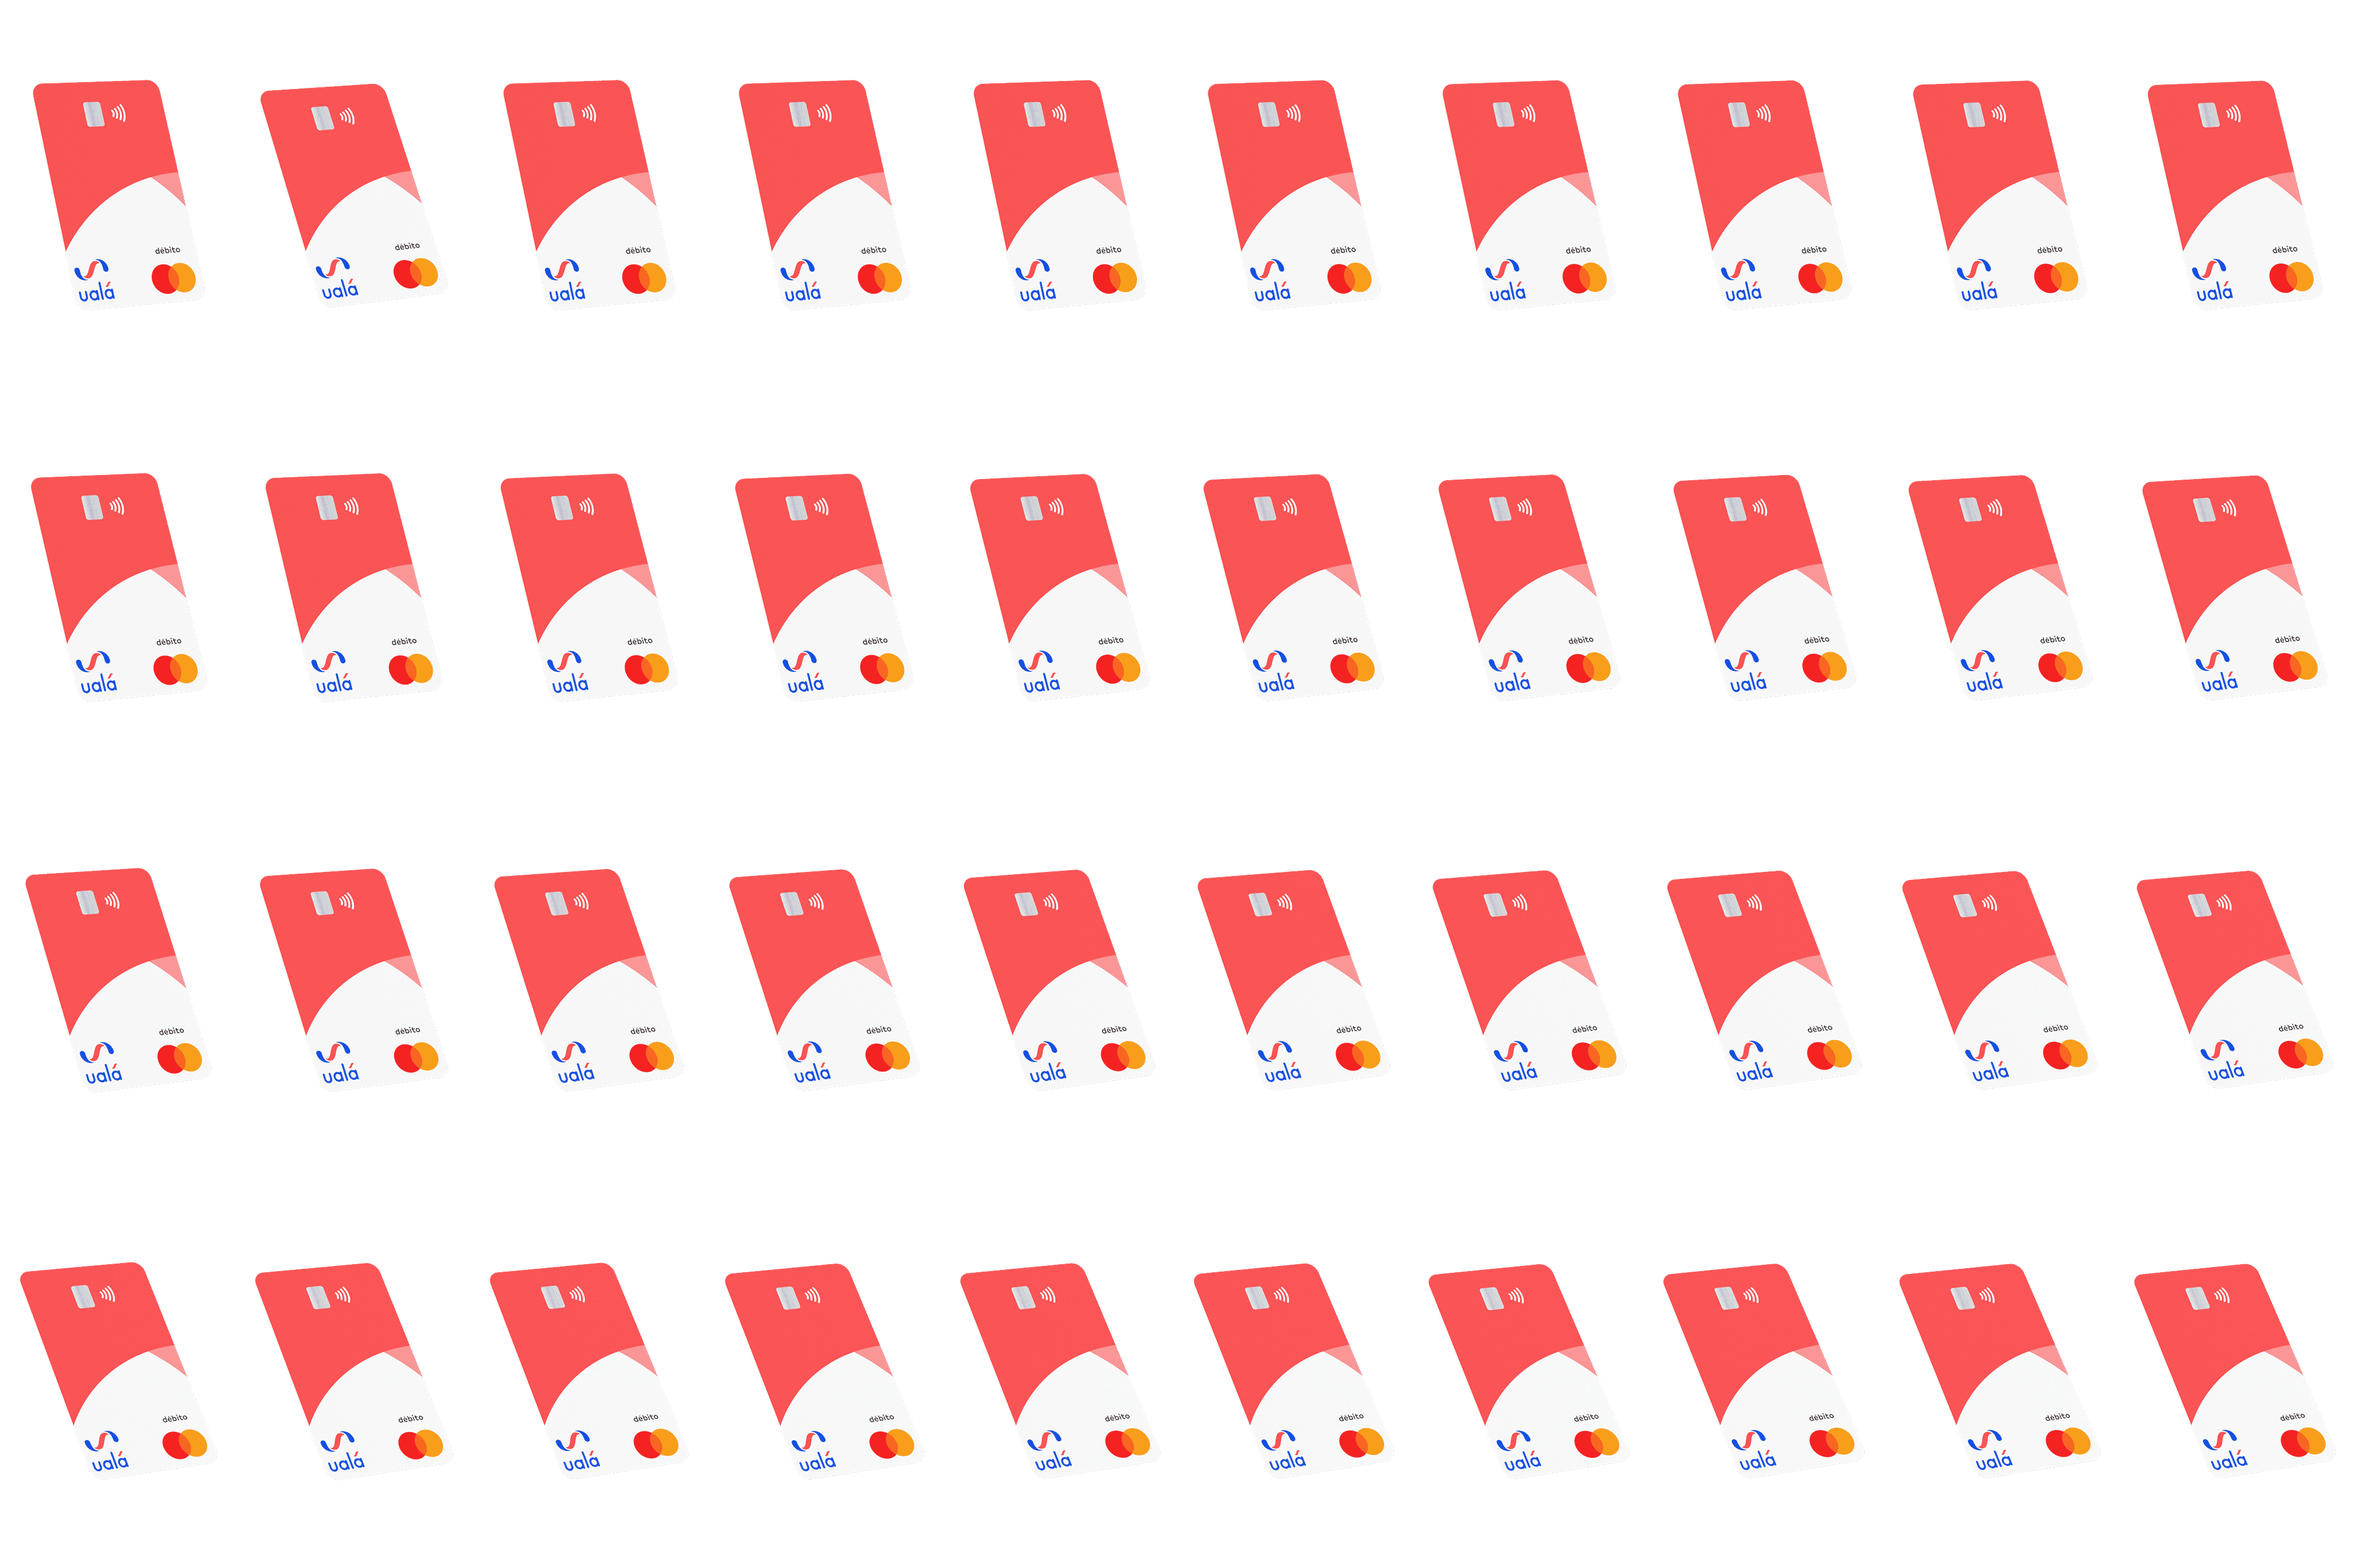
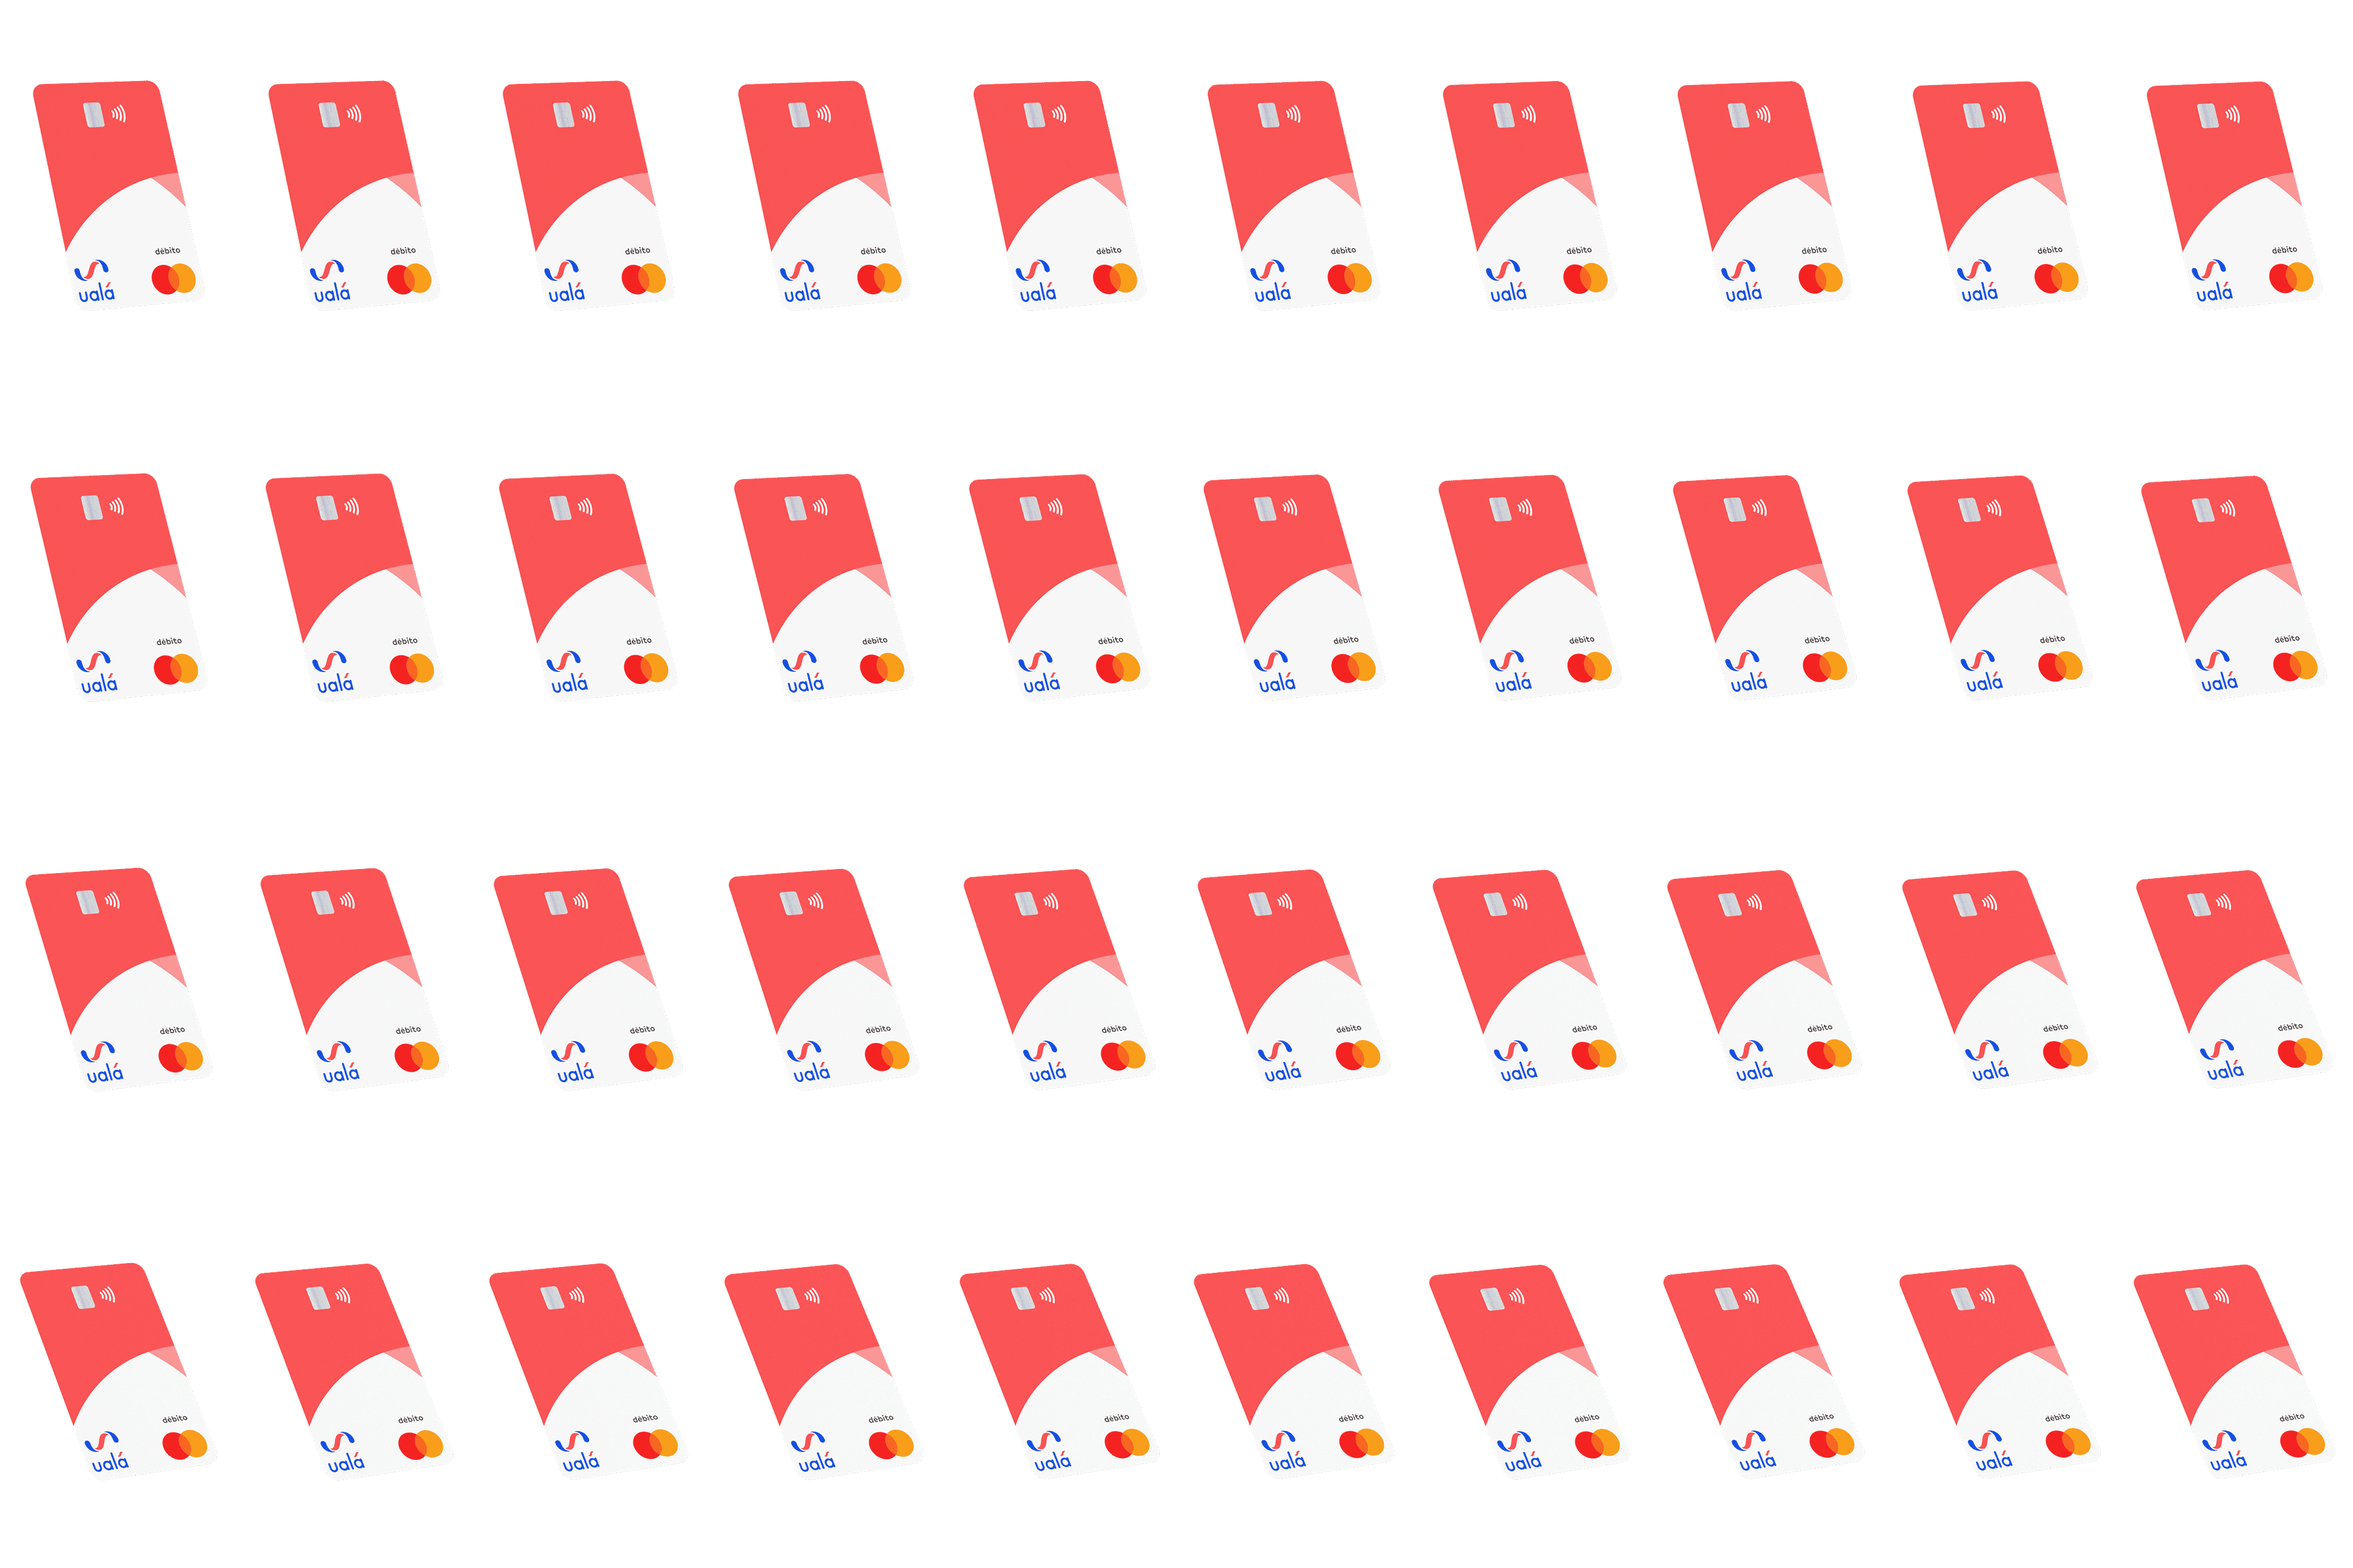
animation

Changed region(s): [[0.125, 0.1557, 0.1875, 0.1868], [0.0938, 0.0623, 0.1562, 0.0934], [0.0625, 0.6538, 0.0938, 0.685]]

diff --git a/src/pages/index.js b/src/pages/index.js
@@ -151,7 +151,7 @@ export default function Home() {
             <div className="relative" style={{ height: 550 }}>
               <div className="absolute top-8 bg-blue-200 left-8 rounded-full" style={{ height: 450, width: 450 }}></div>
               <div className="absolute "><Animation src="/assets/images/animation/celu_alta_Mx.png" zoom={0.85} className="right-0" /></div>
-              <div className="absolute top-20"><Animation src="/assets/images/animation/Tarjeta_alta_Arg.png" zoom={0.75} /></div>
+              <div className="absolute top-20"><Animation src="/assets/images/animation/Tarjeta_alta_Mx.png" zoom={0.75} /></div>
             </div>
           </div>
 

diff --git a/src/components/animation.js b/src/components/animation.js
@@ -86,6 +86,8 @@ export default function Animation(props) {
         height: frame.height
     }
 
+    console.log(animationPosition)
+
     return (
 
         <div className="flex justify-center">
